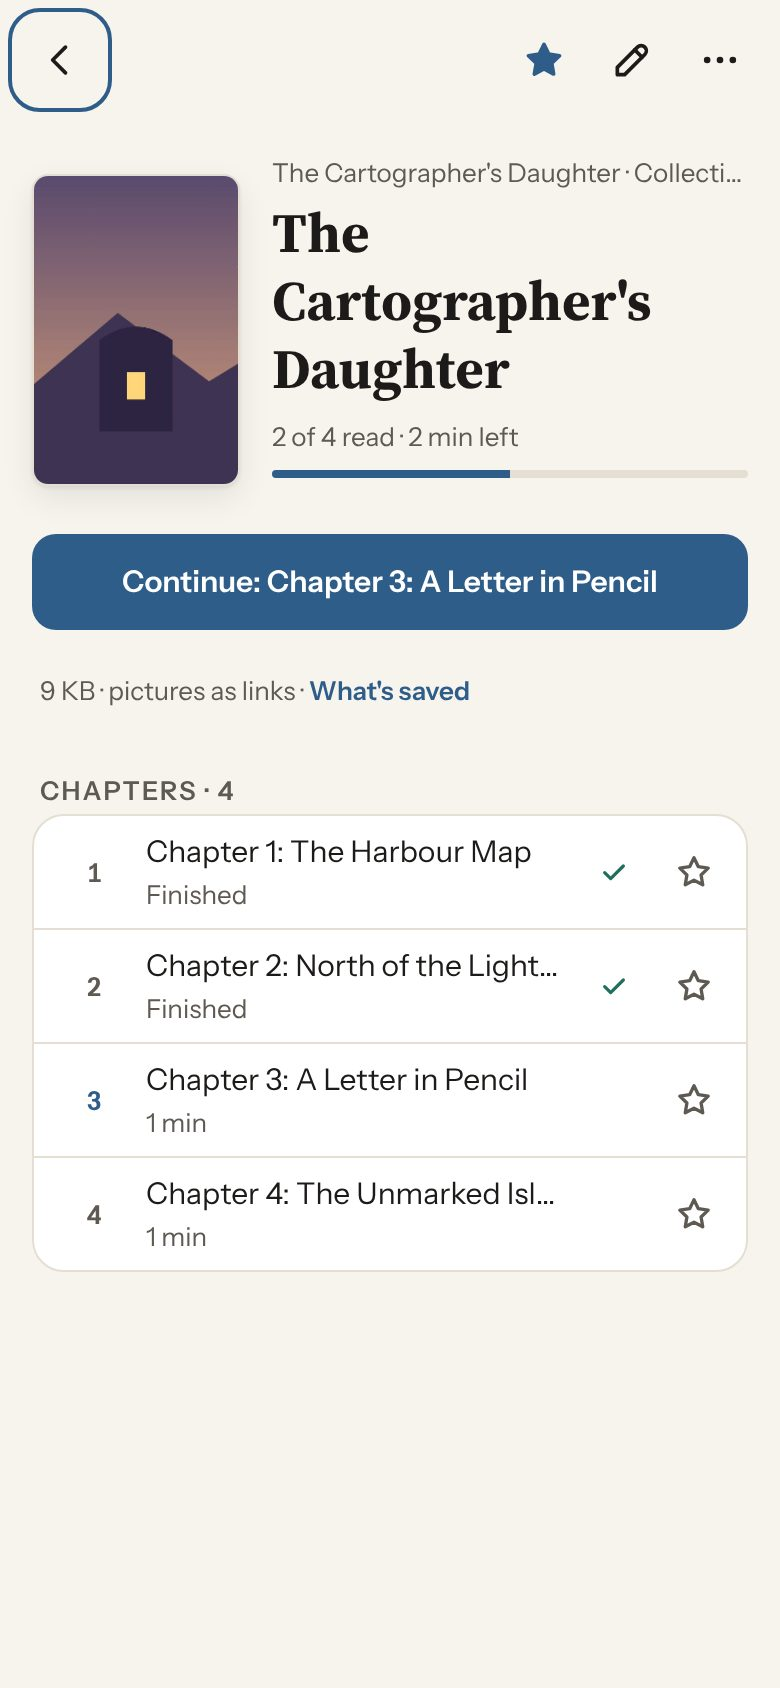
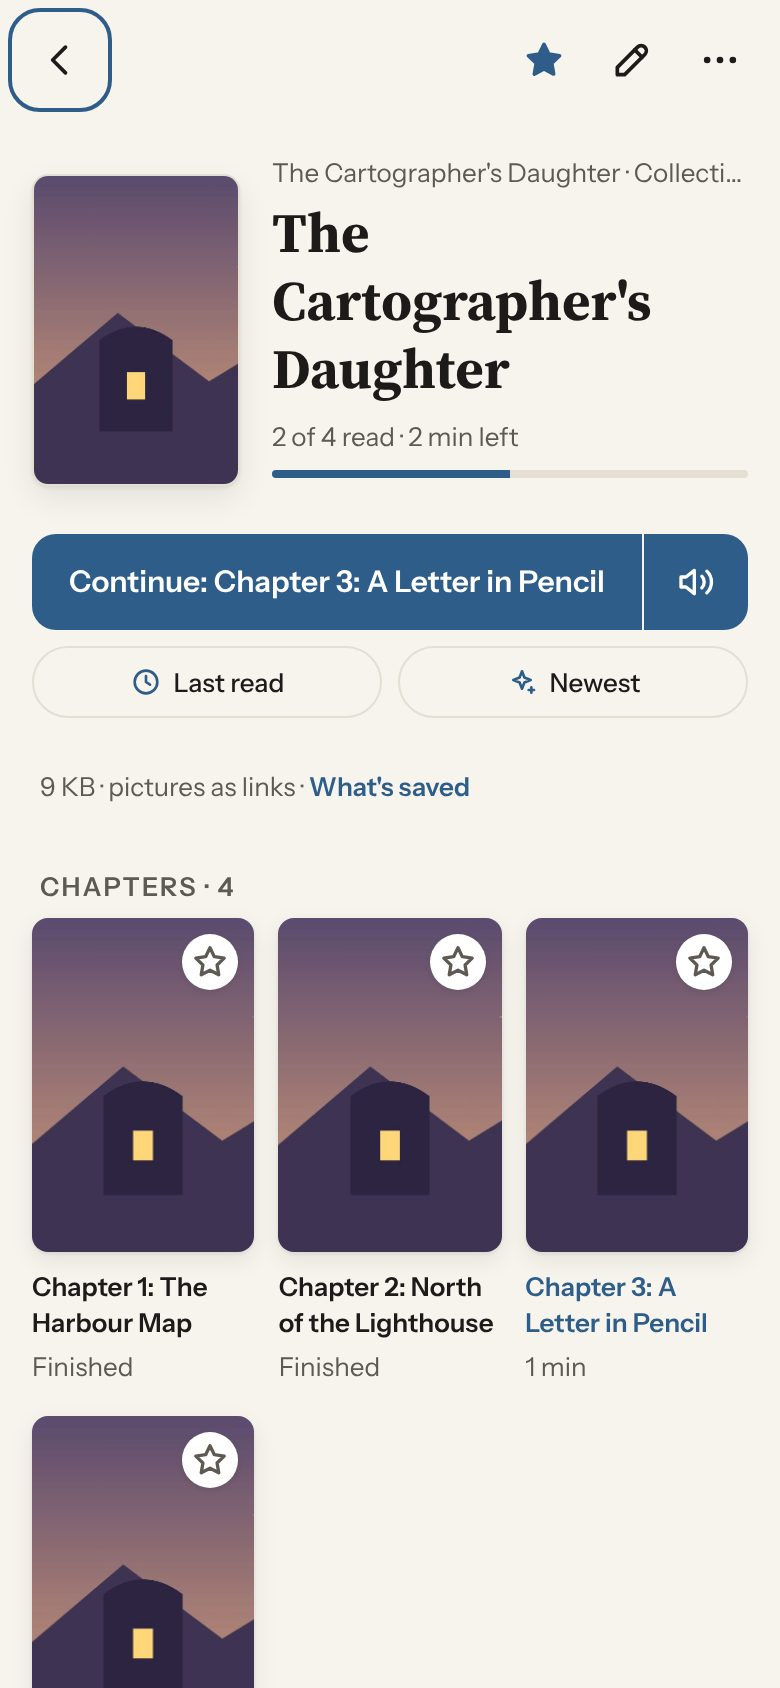
A collection's Continue gets a Narrate half (#418)
* A collection's Continue gets a Narrate half

The speaker joins the blue Continue button, like Save and its list. It
narrates the chapter Continue opens from its place, or the first from its
start once the collection is all read (Daniel's pick, option B).

Claude-Session: https://claude.ai/code/session_01CFeKriJ7MMS8iPTK2jiLBx

* Test: leave the fetch worker's 404 for a made-up page out of the collection Narrate test

Claude-Session: https://claude.ai/code/session_01CFeKriJ7MMS8iPTK2jiLBx

---------

diff --git a/src/app-reader.js b/src/app-reader.js
@@ -57,8 +57,8 @@ const pushes = new WeakMap();
 let tapped = null;
 const zoomed = new WeakMap();
 document.addEventListener("click", (e) => {
-  const t = e.target.closest && e.target.closest(".card-open, .folder-go, .post-open");
-  const panel = t && (t.classList.contains("folder-go") ? t : t.closest(".card, .tile, .post"));
+  const t = e.target.closest && e.target.closest(".card-open, .folder-go, .folder-narrate, .post-open");
+  const panel = t && (t.classList.contains("folder-go") ? t : t.closest(".folder-go-row, .card, .tile, .post"));
   tapped = panel ? { rect: panel.getBoundingClientRect(), radius: parseFloat(getComputedStyle(panel).borderTopLeftRadius) || 0, at: Date.now(), panel, key: panelKey(panel) } : null;
 }, true);
 // The same panel after the library is drawn again (1.11.1), so Back
@@ -71,6 +71,7 @@ function panelKey(n) {
   if (n.dataset.name) return ".tile" + q("data-name", n.dataset.name);
   if (n.dataset.key) return q("data-key", n.dataset.key);
   if (n.classList.contains("folder-go")) return ".folder-go";
+  if (n.classList.contains("folder-go-row")) return ".folder-go-row";
   return n.id ? "#" + CSS.escape(n.id) : "";
 }
 function panelNow(from, under) {
@@ -2144,7 +2145,7 @@ function setAloud(st, index) {
     setTimeout(() => { if (aloud.state === "ended" && aloud.key === wentOnFrom) readNext(); }, 800);
   }
   if (!on && !ended) aloud.key = "";
-  for (const n of document.querySelectorAll(".card-narrate")) n.hidden = on && n.closest(".card").dataset.ids === aloud.key;
+  for (const n of document.querySelectorAll(".card-narrate")) n.hidden = on && (n.dataset.ids || n.closest(".card").dataset.ids) === aloud.key;
   if (st !== "playing" && st !== "paused" && sleep.pick) setSleep("");
   else if (sleep.at && Date.now() >= sleep.at - 1000) { sleep.pick = ""; sleep.at = 0; paintSleep(); }
   keepAwake();
@@ -2330,10 +2331,21 @@ function keepAloudPlace(index) {
 // Not for what Narrate can't read, nor while it's this clip being read.
 const narratable = (p) => !!speech.available && !isAudiobook(p) && !p.comic && !p.note && !C.files.printed(p);
 const narratingNow = (p) => aloudOn() && aloud.key === p.id;
+// A finished clip (a collection read through, read again) is narrated
+// from its start.
 async function narrateFrom(p) {
+  const again = !!p.finished;
   await openPage(p.id);
   if (state.open !== p || narratingNow(p)) return;
-  voicedSound(p) ? voicedPlay() : startAloud();
+  voicedSound(p) ? voicedPlay() : startAloud(again ? 0 : undefined);
+}
+// The speaker beside a collection's Continue (2026-11, Daniel's pick):
+// one blue button in two, like Save and its list.
+function narrateHalf(p) {
+  const b = el("button", { class: "card-narrate folder-narrate", type: "button", "data-ids": p.id, "aria-label": t("Narrate"), title: t("Narrate"), hidden: narratingNow(p) ? "" : null,
+    onclick: () => narrateFrom(p) });
+  b.innerHTML = '<svg width="20" height="20" viewBox="0 0 24 24" fill="none" stroke="currentColor" stroke-width="2" stroke-linecap="round" stroke-linejoin="round" aria-hidden="true"><path d="M11 5L6 9H3v6h3l5 4V5z"/><path d="M15.5 8.5a5 5 0 0 1 0 7M18.5 5.5a9 9 0 0 1 0 13"/></svg>';
+  return b;
 }
 
 // The ring round Pause while the engine makes the piece (Daniel's ask);

diff --git a/test/ui.test.js b/test/ui.test.js
@@ -3408,6 +3408,48 @@ c("bk1", { at: 0.01 })]);
       await q.context().close();
     });
 
+    await test("a collection's Continue has Narrate beside it, from the start once all is read (2026-11)", async () => {
+      const q = await page(browser, 390);
+      await q.evaluate(async () => {
+        const S = window.Waypage.store;
+        const c = (i) => ({ id: "s" + i, url: "https://example.com/s" + i, title: "Part " + i, site: "example.com", savedAt: 1000 + i, minutes: 3, mode: "links", at: 0, folder: "Tale", folderAt: 1000 + i });
+        const one = { ...c(1), at: 1, finished: Date.now(), readAt: Date.now() };
+        await S.writeIndex([one, c(2)]);
+        for (const i of [1, 2]) await S.writePage("s" + i, "<!doctype html><html><body><h1>Part " + i + "</h1>" + "<p>Words of part " + i + ", enough of them to fill a line of the page.</p>".repeat(40) + "</body></html>", c(i));
+      });
+      await q.reload();
+      await q.waitForSelector("#saveUrl");
+      const got = await q.evaluate(async () => {
+        const sp = window.Waypage.platform.speech;
+        sp.play = (o) => { window.played = o; return Promise.resolve(); };
+        sp.stop = () => Promise.resolve();
+        const wait = (f) => new Promise((ok) => { const t = setInterval(() => { if (f()) { clearInterval(t); ok(); } }, 50); });
+        openFolder("Tale");
+        await wait(() => document.querySelector("#folderView .folder-narrate"));
+        const out = { row: !!document.querySelector("#folderView .folder-go-row .folder-go + .folder-narrate") };
+        document.querySelector("#folderView .folder-narrate").click();
+        await wait(() => window.played);
+        out.next = window.played.key;
+        sp.stop(); setAloud("stopped", -1);
+        closeReader();
+        // All read: Read again narrates the first part from its start.
+        for (const p of state.pages) Object.assign(p, { at: 1, finished: Date.now() });
+        window.played = null;
+        openFolder("Tale");
+        renderFolder();
+        await wait(() => document.querySelector("#folderView .folder-narrate[data-ids='s1']"));
+        document.querySelector("#folderView .folder-narrate").click();
+        await wait(() => window.played);
+        out.again = window.played.key + ":" + window.played.start;
+        return out;
+      });
+      assert.deepStrictEqual(got, { row: true, next: "s2", again: "s1:0" });
+      // On CI the app asks the fetch worker for the made-up example.com page; that 404 is not what this test checks.
+      const errs = q.errors.filter((e) => !/waypage-fetch/.test(e));
+      assert.deepStrictEqual(errs, [], errs.join(" | "));
+      await q.context().close();
+    });
+
     await test("an audiobook's Keep playing when you leave the book (2026-11)", async () => {
       const q = await page(browser, 390);
       await q.evaluate(async () => {

diff --git a/src/styles.css b/src/styles.css
@@ -447,6 +447,14 @@ a.btn-small { text-decoration: none; white-space: nowrap; display: inline-flex; 
   background: var(--bg); color: var(--accent); cursor: pointer;
 }
 .card-narrate[hidden], .selecting .card-narrate { display: none; }
+.folder-go-row { display: flex; margin-bottom: var(--s-5); }
+.folder-go-row > .folder-go { flex: 1; min-width: 0; margin: 0; }
+.folder-go-row > .folder-go:not(:last-child) { border-start-end-radius: 0; border-end-end-radius: 0; }
+.folder-narrate {
+  width: 52px; height: 48px; margin-inline-start: 1px; align-self: stretch;
+  border: 0; border-radius: var(--r-md); border-start-start-radius: 0; border-end-start-radius: 0;
+  background: var(--accent); color: var(--accent-ink);
+}
 .card.saving { cursor: default; }
 /* A run's card keeps one height: its status is one line whatever it says. */
 .card.run .card-status { display: block; overflow: hidden; white-space: nowrap; text-overflow: ellipsis; }
@@ -2207,7 +2215,7 @@ span.update-text { cursor: default; }
 .book-facts .folder-meta { margin: 0 0 var(--s-2); }
 .book-progress { height: 4px; border-radius: var(--r-full); background: var(--line); overflow: hidden; }
 .book-progress-fill { display: block; height: 100%; background: var(--accent); }
-.folder-go { margin-bottom: var(--s-2); }
+.folder-go, .folder-go-row { margin-bottom: var(--s-2); }
 .folder-starts { display: grid; grid-template-columns: 1fr 1fr; margin-bottom: var(--s-3); }
 .folder-starts > :last-child:nth-child(odd) { grid-column: span 2; }
 .quick-start .chip-icon { display: flex; color: var(--accent); }

diff --git a/src/app-library.js b/src/app-library.js
@@ -675,8 +675,11 @@ function bookHead(list, next, done) {
       renaming ? null : bar));
   if (renaming) return [head];
   const go = done === n ? t("Read again from the start") : (next.at > 0.02 || done ? t("Continue: {title}", { title: next.title }) : t("Start: {title}", { title: next.title }));
+  const first = done === n ? list[0] : next;
   return [head,
-    el("button", { class: "btn-primary folder-go", type: "button", dir: "auto", onclick: () => openPage(done === n ? list[0].id : next.id) }, go),
+    el("div", { class: "folder-go-row" },
+      el("button", { class: "btn-primary folder-go", type: "button", dir: "auto", onclick: () => openPage(first.id) }, go),
+      narratable(first) ? narrateHalf(first) : null),
     quickStarts(list, done === n ? list[0] : next),
     saveNewButton(list),
     savedLine(list)];

diff --git a/changes/feature-collection-narrate.md b/changes/feature-collection-narrate.md
@@ -1,0 +1,2 @@
+### Added
+- A collection's Continue button has a Narrate half, the speaker at its end. It narrates the chapter Continue opens, from where you left off, or the first one from its start once the collection is all read. It isn't shown for audiobooks, comics, notes or PDFs shown as pages, nor while that chapter is already being narrated.
